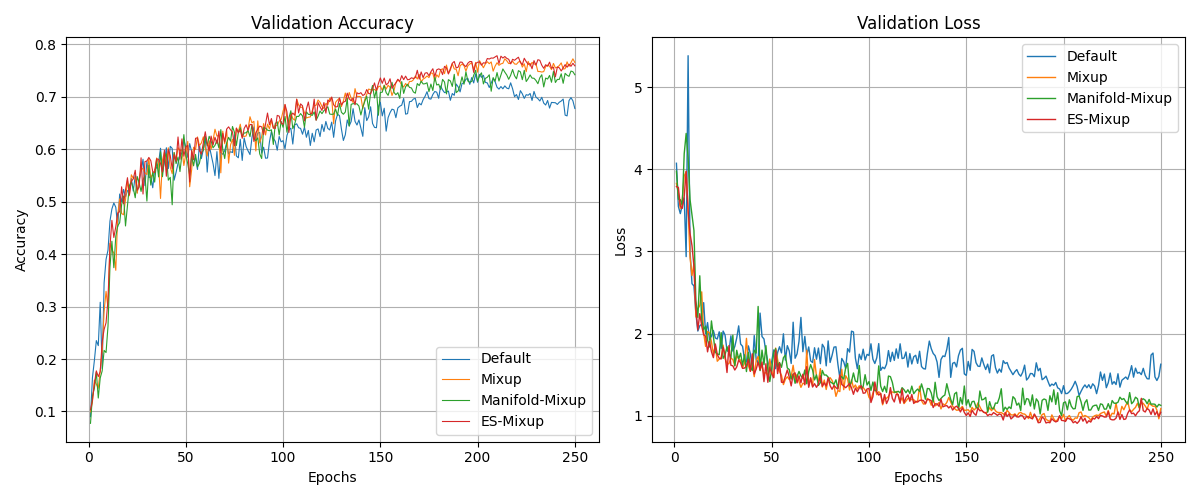
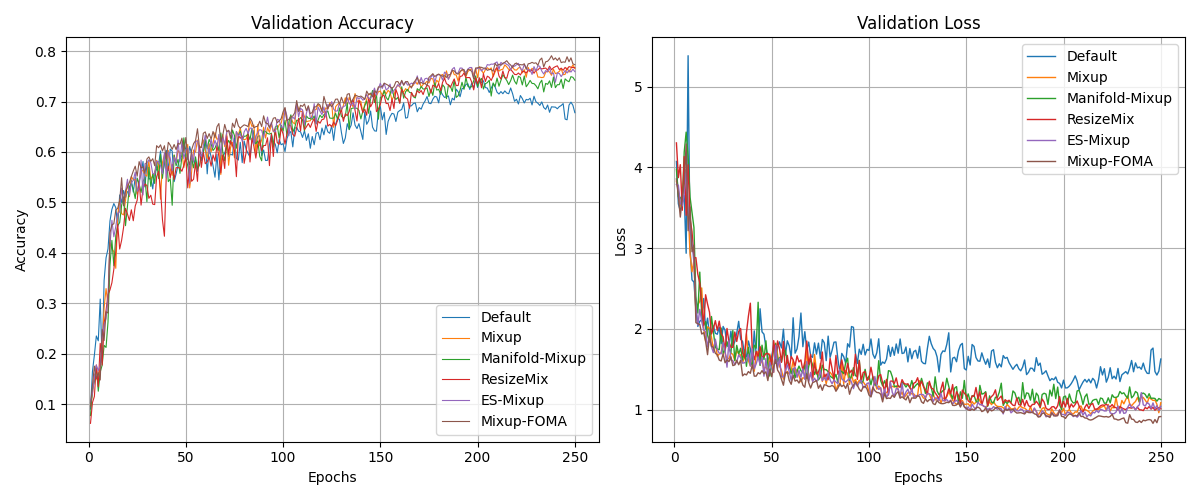
plot result

diff --git a/result.py b/result.py
@@ -6,8 +6,8 @@ import matplotlib.pyplot as plt
 
 def main():
     parser = argparse.ArgumentParser()
-    parser.add_argument("--iteration",  type=int, default=6)
-    parser.add_argument("--epochs",     type=int, default=400)
+    parser.add_argument("--iteration",  type=int, default=1)
+    parser.add_argument("--epochs",     type=int, default=250)
     parser.add_argument("--data_type",  type=str, default="cifar100",          choices=["stl10", "cifar100", "cifar10"])
     parser.add_argument("--model_type", type=str, default="wide_resnet_28_10", choices=["resnet18", "resnet101", "wide_resnet_28_10"])
     args = parser.parse_args()
@@ -21,11 +21,13 @@ def main():
         "Default",
         "Mixup",
         "Manifold-Mixup",
+        "ResizeMix",
         # "CutMix",
         # "RegMixup",
         # "Local-FOMA",
         # "Mixup-FOMA2",
         "ES-Mixup",
+        "Mixup-FOMA",
         
         # "Mixup-FOMA-scaleup"
         # "FOMA-Mixup"
